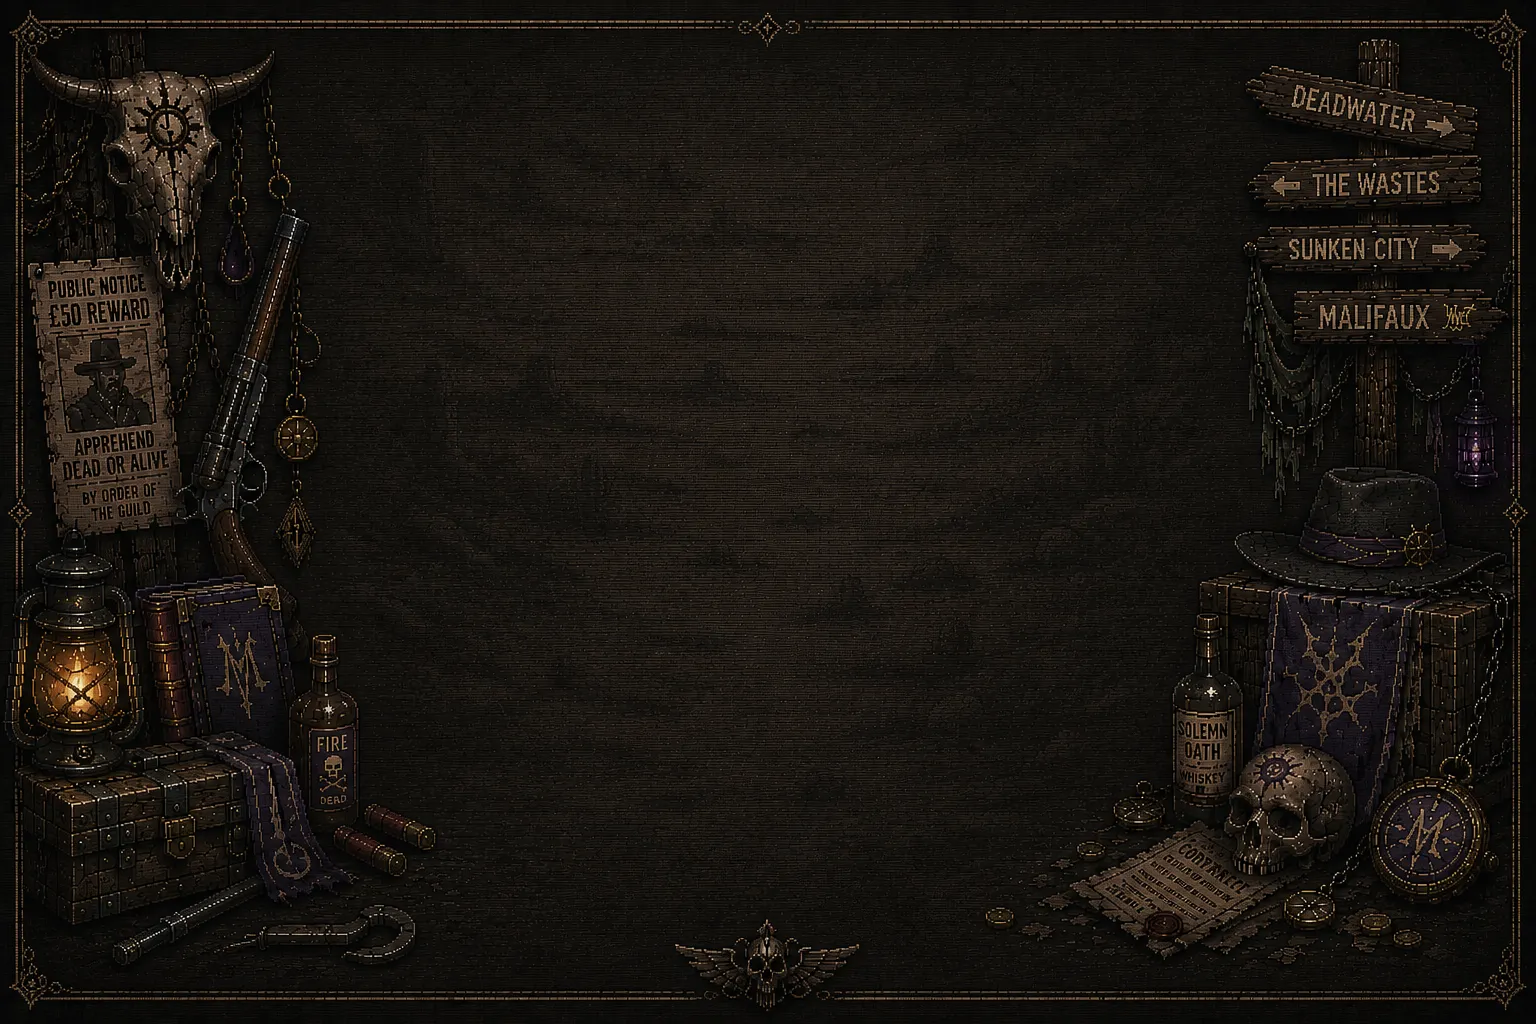
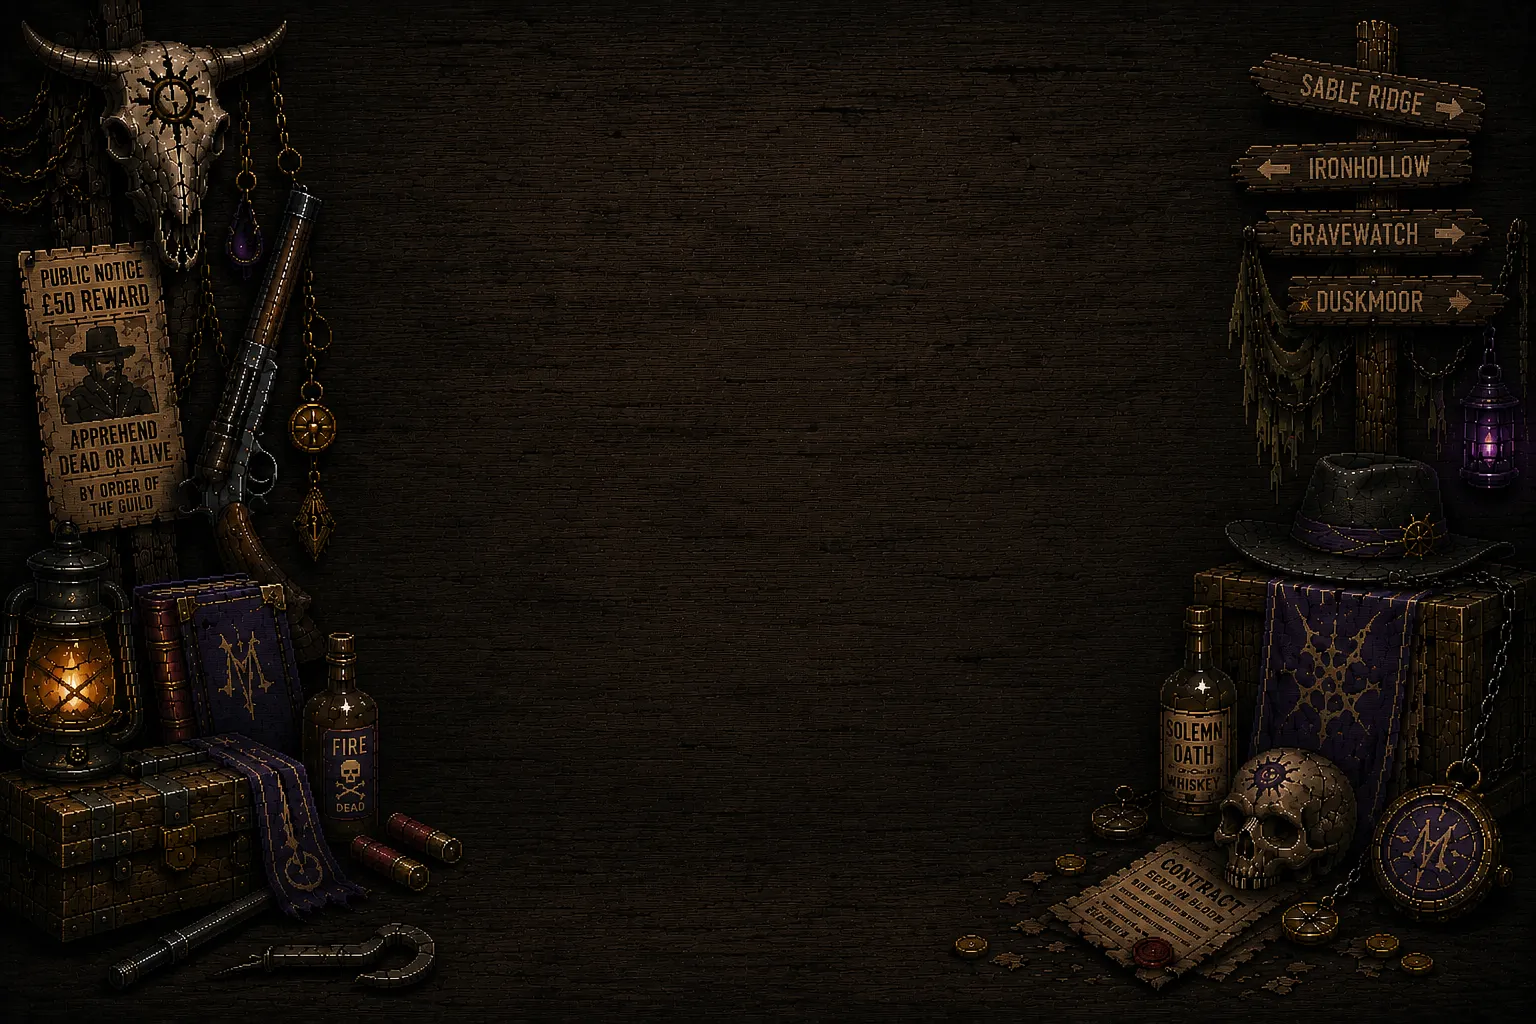
feat: the props go on the table, and Hank keeps his head
The regenerated background clears the §8 block from v0.10.0 — no Wyrd wordmark,
signposts now Sable Ridge / Ironhollow / Gravewatch / Duskmoor, ornate border
dropped by owner decision. Live at 250 KB.

Hero crop fixed. The height is now in vw rather than pixels, and that is the
actual fix: with `cover` on an image wider than its box, the visible fraction
is height x 2.5 / width, so a fixed pixel height crops harder the wider the
monitor. At ~2000px the old 268px showed 33% of the image and beheaded Hank; at
1280px the same rule showed 52%. Tying height to width holds the crop constant
at ~57.5%. Measured identical at 1600 and 2000: band 28.7%-86.5%, with the hat
at 34% and boots at 83% both inside.

The masthead scrim became a pool behind the type rather than a band across the
picture — a uniform 82% top scrim was burying Hank and Henrietta to keep one
centred heading legible. The nav is unaffected; it carries its own plate and
clears 5.24:1 against the brightest pixel of the sunset.

Mobile needed the opposite fix on the other axis: below ~960px the box is
taller-ratio than the image, so cover scales by height and crops horizontally.
Centred, that cut Hank out and left mostly sky. Anchored 36% 60% there.

- Props and firelight are separate fixed layers (body::before / body::after) so
  the fire falls on the objects and they do not breathe with its animation.
- The background is not loaded below 900px: cover crops the props out of frame
[…]

diff --git a/src/styles/app.css b/src/styles/app.css
@@ -22,11 +22,31 @@ body {
   -webkit-font-smoothing: antialiased;
 }
 
+/* Hank's things, laid out at the edges of the table.
+   Two fixed layers rather than one: the objects do not breathe, and the fire
+   has to fall on top of them rather than under them. ::after paints after
+   ::before, so the order here is the lighting order.
+
+   Loaded only above 900px. Below that the props are cropped out of frame
+   entirely by `cover`, so a phone would be paying 250 KB for pixels it never
+   sees — and any prop that did survive the crop would sit behind the text. */
+body::before {
+  content: '';
+  position: fixed; inset: 0; z-index: 0; pointer-events: none;
+  background: var(--night);
+}
+@media (min-width: 900px) {
+  body::before {
+    background: url('/art/background-1536.webp') 50% 0 / cover no-repeat, var(--night);
+    opacity: .9;
+  }
+}
+
 /* The one light source. It sits low and centre, the way a fire does, and its
    slow rise and fall is the single authored moment of motion in the app —
    everything else that moves is affordance. Fixed rather than scrolled: you
    do not leave the campsite by scrolling down a page. */
-body::before {
+body::after {
   content: '';
   position: fixed; inset: 0; z-index: 0; pointer-events: none;
   background:
@@ -35,6 +55,19 @@ body::before {
   animation: hearth 7s cubic-bezier(.4,0,.5,1) infinite alternate;
 }
 @keyframes hearth { from { opacity: .8 } to { opacity: 1 } }
+
+/* A plate under the reading column, soft-edged so it reads as light falling on
+   the table rather than as a box. Without it, bare text — labels, notes, the
+   colophon — sits directly on the wanted poster and the signposts. */
+@media (min-width: 900px) {
+  .wrap {
+    background: linear-gradient(90deg,
+      rgba(20, 14, 9, 0) 0%,
+      rgba(20, 14, 9, .90) 7%,
+      rgba(20, 14, 9, .90) 93%,
+      rgba(20, 14, 9, 0) 100%);
+  }
+}
 
 /* Browser surfaces belong to the design too. Left alone they ship as system
    defaults that belong to no palette at all. */
@@ -65,16 +98,27 @@ body::before {
 .masthead {
   position: relative;
   overflow: hidden;
-  background: #100b06 url('/art/hero-960.webp') 50% 76% / cover no-repeat;
-  min-height: 208px;
+  /* On a narrow screen the box is taller-ratio than the image, so `cover`
+     scales by HEIGHT and crops horizontally instead of vertically. Centred, that
+     cuts Hank out and leaves mostly sky. 36% frames him with the fire beside
+     him. Above 960px the image scales by width and this x value does nothing. */
+  background: #100b06 url('/art/hero-960.webp') 36% 60% / cover no-repeat;
+  min-height: 250px;
   border-bottom: 1px solid var(--line);
   padding: 34px 20px 22px;
 }
 @media (min-width: 961px) {
   .masthead {
     background-image: url('/art/hero-1600.webp');
-    background-position: 50% 72%;
-    min-height: 268px;
+    /* Hank's hat starts around 34% down the image and his boots end near 83%,
+       so the visible band has to run from roughly 29% to 86%. */
+    background-position: 50% 68%;
+    /* Height in vw, not px. With `cover` on an image wider than the box, the
+       fraction of the picture on show is (height x 2.5 / width) — so a fixed
+       pixel height crops harder the wider the monitor, which is exactly how
+       Hank lost his head on a 2000px screen. Tying height to width holds the
+       crop constant at ~57% at every size. */
+    min-height: clamp(250px, 23vw, 520px);
     padding: 46px 20px 24px;
   }
 }
@@ -84,11 +128,17 @@ body::before {
 .masthead::after {
   content: '';
   position: absolute; inset: 0; z-index: 0; pointer-events: none;
-  background: linear-gradient(180deg,
-    rgba(16, 11, 6, .82) 0%,
-    rgba(16, 11, 6, .34) 34%,
-    rgba(16, 11, 6, .52) 66%,
-    rgba(23, 17, 12, .95) 100%);
+  background:
+    /* A pool behind the type rather than a flat band across the picture. The
+       wordmark is centred; Hank is at 22-40% from the left and Henrietta is
+       further right still, so a uniform scrim buried both of them to keep one
+       heading legible. */
+    radial-gradient(ellipse 44% 78% at 50% 38%, rgba(16,11,6,.84) 0%, rgba(16,11,6,.46) 58%, rgba(16,11,6,0) 100%),
+    linear-gradient(180deg,
+      rgba(16, 11, 6, .56) 0%,
+      rgba(16, 11, 6, .22) 34%,
+      rgba(16, 11, 6, .42) 66%,
+      rgba(23, 17, 12, .95) 100%);
 }
 .masthead__top, .masthead .views, .masthead .steps { position: relative; z-index: 1; }
 
@@ -605,7 +655,8 @@ body::before {
   .hank, .hank-toggle, .gate, .account { display: none !important; }
 
   body { background: #fff; color: #000; }
-  body::before { display: none !important; }
+  body::before, body::after { display: none !important; }
+  .wrap { background: none !important; }
   .shell { padding: 0; }
   .wrap { max-width: none; padding: 0; }
 

diff --git a/docs/VERSION_HISTORY.md b/docs/VERSION_HISTORY.md
@@ -1549,3 +1549,56 @@ store, render on the shelf — at both desktop and mobile widths.
 **Not covered by tests:** `renderPortrait`, `loadImage` and `releaseImage` touch
 canvas and object URLs, the same licence `storage.js` takes. Everything above
 them in the module is pure and tested.
+
+---
+
+### Session 26 — v0.10.1
+Date: 2026-08-31
+
+**feat: the props go on the table, and Hank keeps his head**
+
+The owner regenerated `website-background.png` without the Wyrd wordmark — the
+`MALIFAUX` signpost is now Sable Ridge, Ironhollow, Gravewatch and Duskmoor,
+all invented, and the winged emblem is gone. The ornate border was dropped by
+owner decision. That cleared the §8 block from v0.10.0 and the background is
+now live at 250 KB.
+
+The owner also reported the masthead cutting Hank's head off, with permission
+to make it taller.
+
+**Key decisions and why:**
+
+- **The hero's height is in `vw`, not pixels, and that is the actual fix.**
+  With `cover` on an image wider than its box, the fraction of the picture on
+  show is `height x 2.5 / width` — so a fixed pixel height crops *harder the
+  wider the monitor*. At the owner's ~2000px screen the old 268px showed 33% of
+  the image and beheaded Hank; at 1280px the same rule showed 52%. Tying height
+  to width holds the crop constant at ~57.5% everywhere. Measured identical at
+  1600px and 2000px: band 28.7%–86.5%, hat at 34% and boots at 83% both inside.
+- **The scrim became a pool behind the type instead of a band across the
+  picture.** The wordmark is centred; Hank is at 22–40% from the left and
+  Henrietta further right. A uniform 82% scrim at the top was burying both of
+  them to keep one heading legible. Now a radial pool sits under the wordmark
+  and the flat layer is much weaker. The nav was unaffected either way — it
+  carries its own translucent plate and clears 5.24:1 against the brightest
+  pixel of the sunset.
+- **Mobile needed the opposite fix, on the other axis.** Below ~960px the box
+  is taller-ratio than the image, so `cover` scales by *height* and crops
+  horizontally instead. Centred, that cut Hank out and left mostly sky. The
+  anchor is `36% 60%` there, which frames him with the fire. Above 960px the
+  image scales by width and that x value does nothing.
+- **The props and the firelight are separate fixed layers.** `body::before`
+  holds the objects, `body::after` the fire, in that paint order — the fire has
+  to fall *on* them, and they must not breathe with its animation.
+- **The background is not loaded below 900px at all.** `cover` crops the props
+  out of frame on a phone, so it would be 250 KB of pixels nobody sees, and any
+  prop that did survive would sit behind the text. Verified: the computed
+  `background-image` on `body::before` carries no file at 375px.
+- **A soft-edged plate under the reading column.** The content column is 820px
+  and the props reach further in than that on a wide screen, so bare text —
+  labels, notes, the colophon — was landing on the wanted poster. Soft-edged
+  rather than a box, since the frame that would have justified a hard edge was
+  dropped.
+
+**Verified:** 158 tests, build clean, detector clean. Crop geometry measured at
+1280, 1600 and 2000px and confirmed identical; mobile checked separately.

diff --git a/docs/ART_BRIEF.md b/docs/ART_BRIEF.md
@@ -92,23 +92,40 @@ the middle third. Nothing important can sit within 15% of either edge. It sits
 heaviest top and bottom where type sits, thinnest across the middle so the fire
 still reads. Supply at full strength; the scrim is CSS.
 
-## 2b. The page background — `background-1536.webp` ⏸ ON HOLD
+## 2b. The page background — `background-1536.webp` ✅ DONE
 
-Owner-drawn props and an ornate frame: steer skull, wanted poster, lantern,
-signposts, whiskey, contract. Optimised to 255 KB and sitting in `public/art/`,
-but **not wired up**, for two reasons:
+Owner-drawn props at the table's edges: steer skull, wanted poster, lantern,
+strongbox, signposts, whiskey, contract, skull. The signposts read Sable Ridge,
+Ironhollow, Gravewatch and Duskmoor — invented places, which is what keeps this
+clear of §8.
 
-1. **It carries the Wyrd wordmark** on the `MALIFAUX` signpost. §8 forbids
-   copying Wyrd's trade dress, and the permission this project runs on is
-   revocable at any time. Awaiting a regenerated version without it.
-2. **The ornate frame cannot be part of a flat background image.** The content
-   panel's height varies enormously — one leader versus eight, or the arsenal
-   sheet, which runs to pages — and a baked frame cannot stretch. It needs
-   supplying as a **separate asset from the props**, so it can become a CSS
-   `border-image` 9-slice: four corners that stay crisp, four edges that tile.
+| | |
+|---|---|
+| Master | `website-background.png`, 1536 × 1024, 2.66 MB. |
+| Served | `background-1536.webp`, **250 KB**, at 90% opacity. |
+| Rendered at | `body::before`, fixed, `cover`, anchored `50% 0`. |
 
-The side props also need a breakpoint below which they are hidden, or on a
-phone they sit directly behind the text.
+**It is not loaded below 900px.** `cover` crops the props out of frame entirely
+on a phone, so loading it there would spend 250 KB on pixels nobody sees — and
+any prop that did survive would sit behind the text.
+
+**The props and the firelight are separate fixed layers**, `body::before` and
+`body::after` in that order, because the fire has to fall *on* the objects
+rather than under them, and the objects must not breathe with the fire's
+animation.
+
+**A soft-edged plate sits under the reading column** above 900px. Without it,
+bare text — labels, notes, the colophon — lands directly on the wanted poster
+and the signposts.
+
+### If the frame ever comes back
+
+The owner's mockup had an ornate border around the content panel and it was
+dropped for now. If it returns, **it cannot be part of a flat background
+image**: the panel's height swings from one leader to the arsenal sheet's
+several pages, and a baked frame cannot stretch. Supply it as a **separate
+asset from the props** so it can become a CSS `border-image` 9-slice — four
+corners that stay crisp, four edges that tile.
 
 ## 3. Assets there is currently no slot for
 

diff --git a/CLAUDE.md b/CLAUDE.md
@@ -4,7 +4,7 @@
 
 ---
 
-## Current Version: 0.10.0
+## Current Version: 0.10.1
 
 ## Last Updated: 2026-08-31
 
@@ -111,7 +111,7 @@ Shipped and live:
 | **Arsenal sheet** | Every field of the official sheet, in this app's own type and palette. |
 | **D1 sync** | Local-first, D1 mirrors. Signing in adopts anything built signed out. **Confirmed working across the owner's phone and computer.** |
 | **Security** | Ownership gate, `requireSubject`, same-origin writes, 16 authorization tests, account erasure. |
-| **The look** | v0.9.0. A camp at dusk, not a records office — warm ground, one firelight source, Rye on the wordmark, Alegreya everywhere else. |
+| **The look** | v0.10.1. A camp at dusk. Owner-drawn hero across the masthead, owner-drawn props at the page edges, one firelight source over them, Rye on the wordmark, Alegreya everywhere else. |
 | **Hank has a face** | v0.9.1. Owner-drawn 16-bit medallion, served as a 33 KB WebP beside every line he speaks. See `docs/ART_BRIEF.md`. |
 
 134 tests. The audit's high and all mediums are closed.
